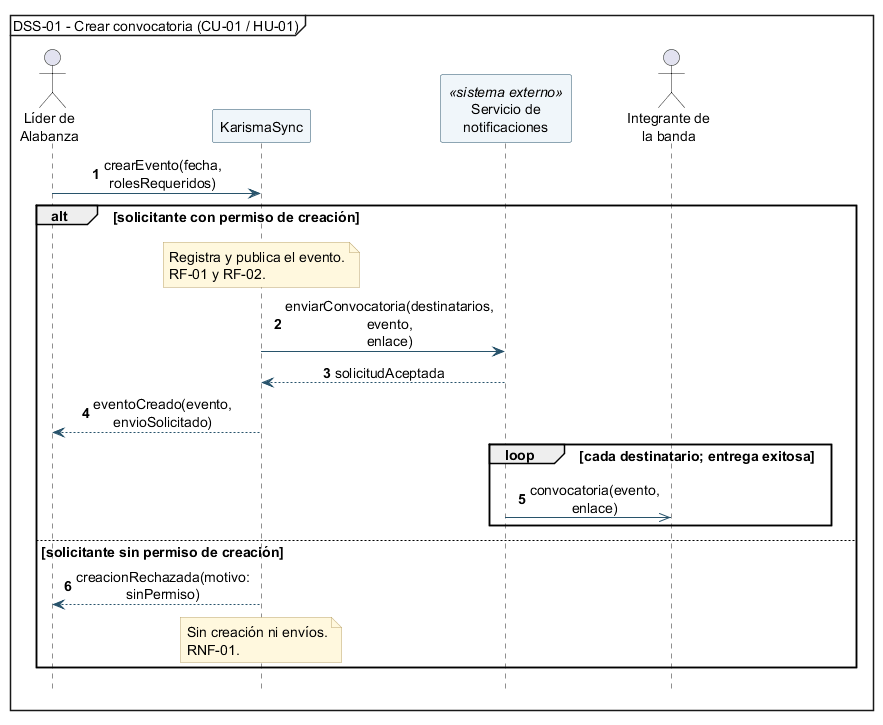
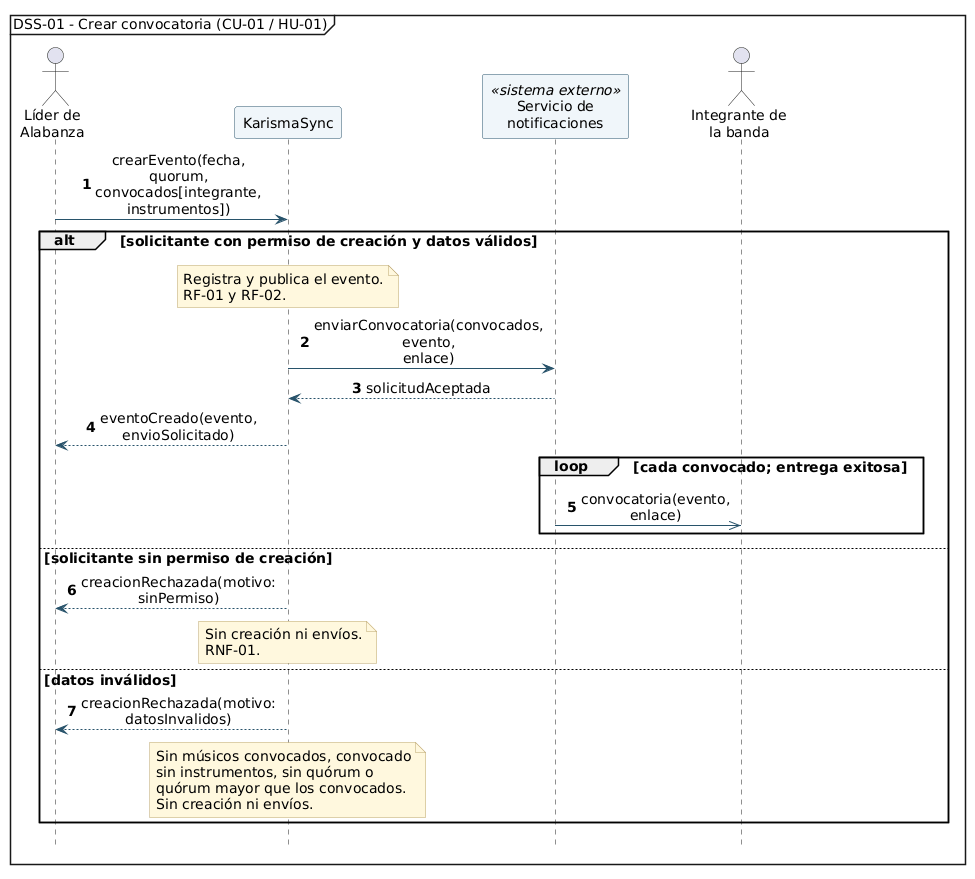
Diagramas DSS-01 y DSS-03 exportados; archivar hu-01-quorum-obligatorio

diff --git a/openspec/changes/hu-01-quorum-obligatorio/tasks.md b/openspec/changes/hu-01-quorum-obligatorio/tasks.md
@@ -20,4 +20,4 @@
 
 - [x] 4.1 Actualizar HU-01 CA4, el Gherkin de HU-01, CU-01 y DSS-01.
 - [x] 4.2 Actualizar `12-trazabilidad.md` y `.cin324/proyecto.md`.
-- [ ] 4.3 Exportar `diagramas/dss-01-crear-convocatoria.png` desde el `.puml` actualizado.
+- [x] 4.3 Exportar `diagramas/dss-01-crear-convocatoria.png` desde el `.puml` actualizado.
